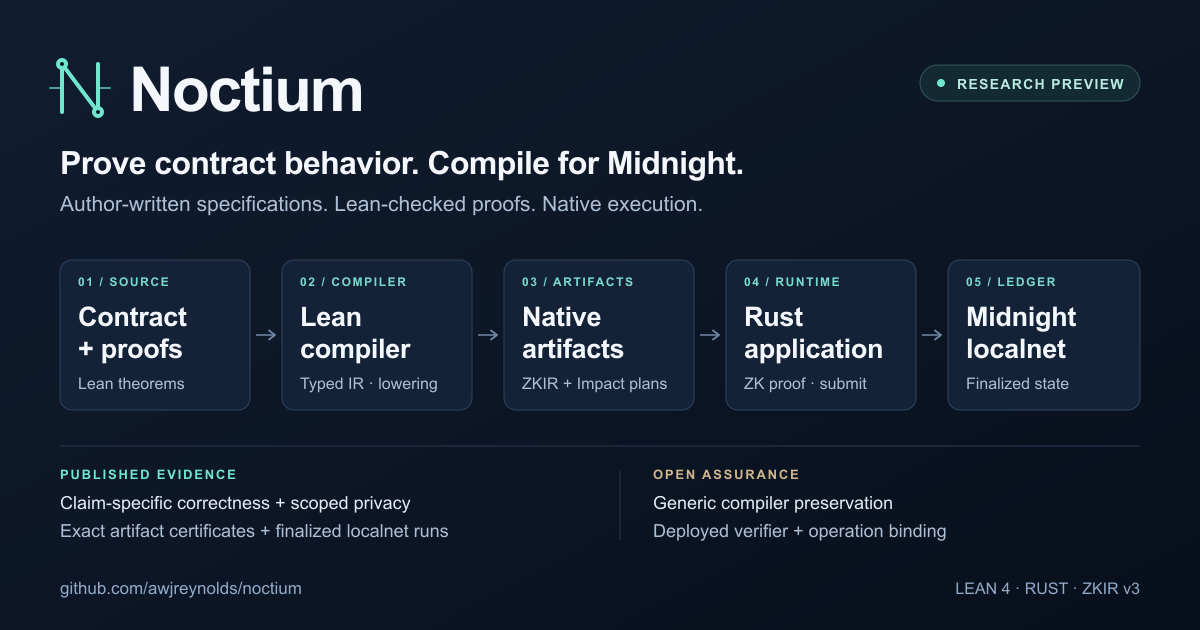
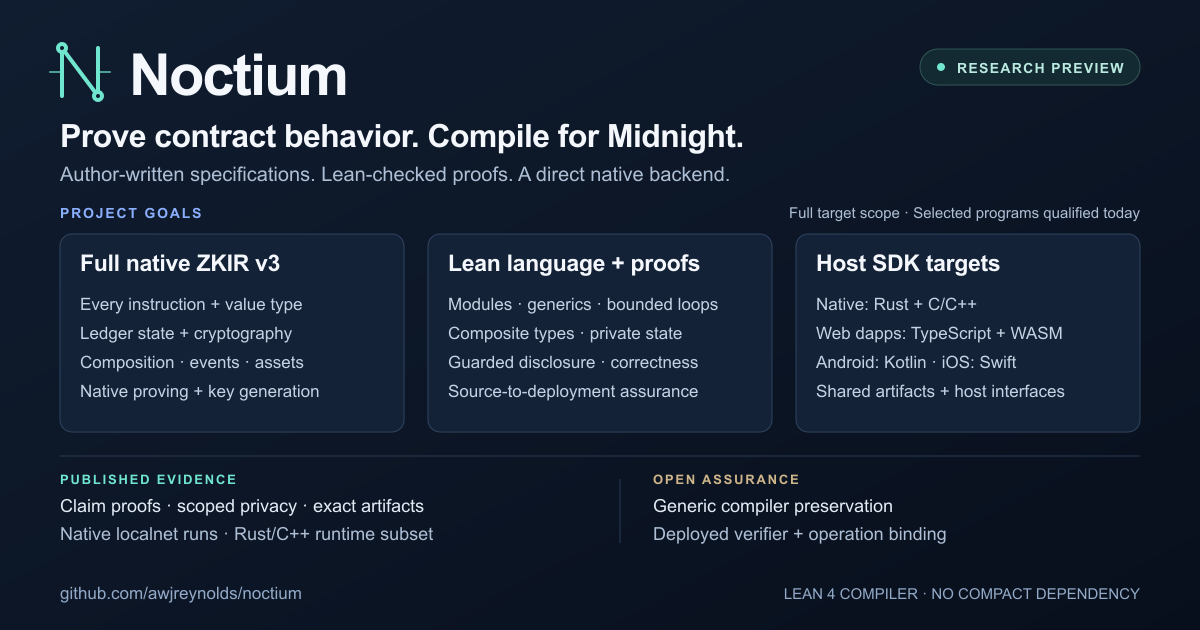
docs: show full native and SDK scope as explicit Noctium goals

diff --git a/README.md b/README.md
@@ -5,6 +5,7 @@
 <p align="center">
   <a href="#try-the-compiler">Quick start</a> ·
   <a href="docs/README.md">Documentation</a> ·
+  <a href="docs/assets/noctium-capabilities.png">Capability goals</a> ·
   <a href="docs/designs/architecture.md">Architecture &amp; assurance</a> ·
   <a href="https://github.com/awjreynolds/noctium/issues/1">Roadmap</a>
 </p>
@@ -80,7 +81,9 @@ Native cryptography, parser/VM agreement, host behavior and authenticated author
 
 The destination is [full native ZKIR v3 and Midnight ledger capability coverage](docs/compatibility/GOAL.md). Compact feature equivalence is a minimum comparison, not the scope limit.
 
-Today: `Native`, `Bool`, bounded unsigned scalars, typed helpers, scalar disclosure checks, and lazy host control. Checked composite layouts and codecs are present. Aggregate source effects, native guarded execution, broader ledger composition and mobile/WASM bindings remain open.
+SDK goals cover native Rust/C/C++, TypeScript with WASM for web dapps, Kotlin for Android and Swift for iOS. Rust and the C/C++ runtime subset have qualified execution evidence. Web/mobile packages and full proof/transaction bindings remain goals.
+
+Today: `Native`, `Bool`, bounded unsigned scalars, typed helpers, scalar disclosure checks, and lazy host control. Checked composite layouts and codecs are present. Aggregate source effects, native guarded execution and broader ledger composition remain open. Explore the [full capability goals graphic](docs/assets/noctium-capabilities.png).
 
 Start with the [public issue map](https://github.com/awjreynolds/noctium/issues/1) and [contribution guide](CONTRIBUTING.md). The [documentation index](docs/README.md) connects authoring, runtime integration, proof reproduction and capability research.
 

diff --git a/docs/README.md b/docs/README.md
@@ -57,4 +57,4 @@ The [Verity comparison](research/verity-lessons.md) records lessons for compiler
 
 ## Project visual
 
-[Download the 1200 × 630 PNG](assets/noctium-social.png) for LinkedIn or X/Twitter, or use the [editable SVG](assets/noctium-social.svg). The card describes a research preview and separates published evidence from open assurance work. Both assets use the repository's [MIT license](../LICENSE).
+The [1200 × 630 share card](assets/noctium-social.png) and [editable SVG](assets/noctium-social.svg) summarize the project goals. The [1600 × 1160 capability map](assets/noctium-capabilities.png) and [editable SVG](assets/noctium-capabilities.svg) show the full target feature set, including full pinned ZKIR v3 support and native, web and mobile SDKs. Both graphics label goals, published subset evidence and unfinished assurance separately. Assets use the repository's [MIT license](../LICENSE).
